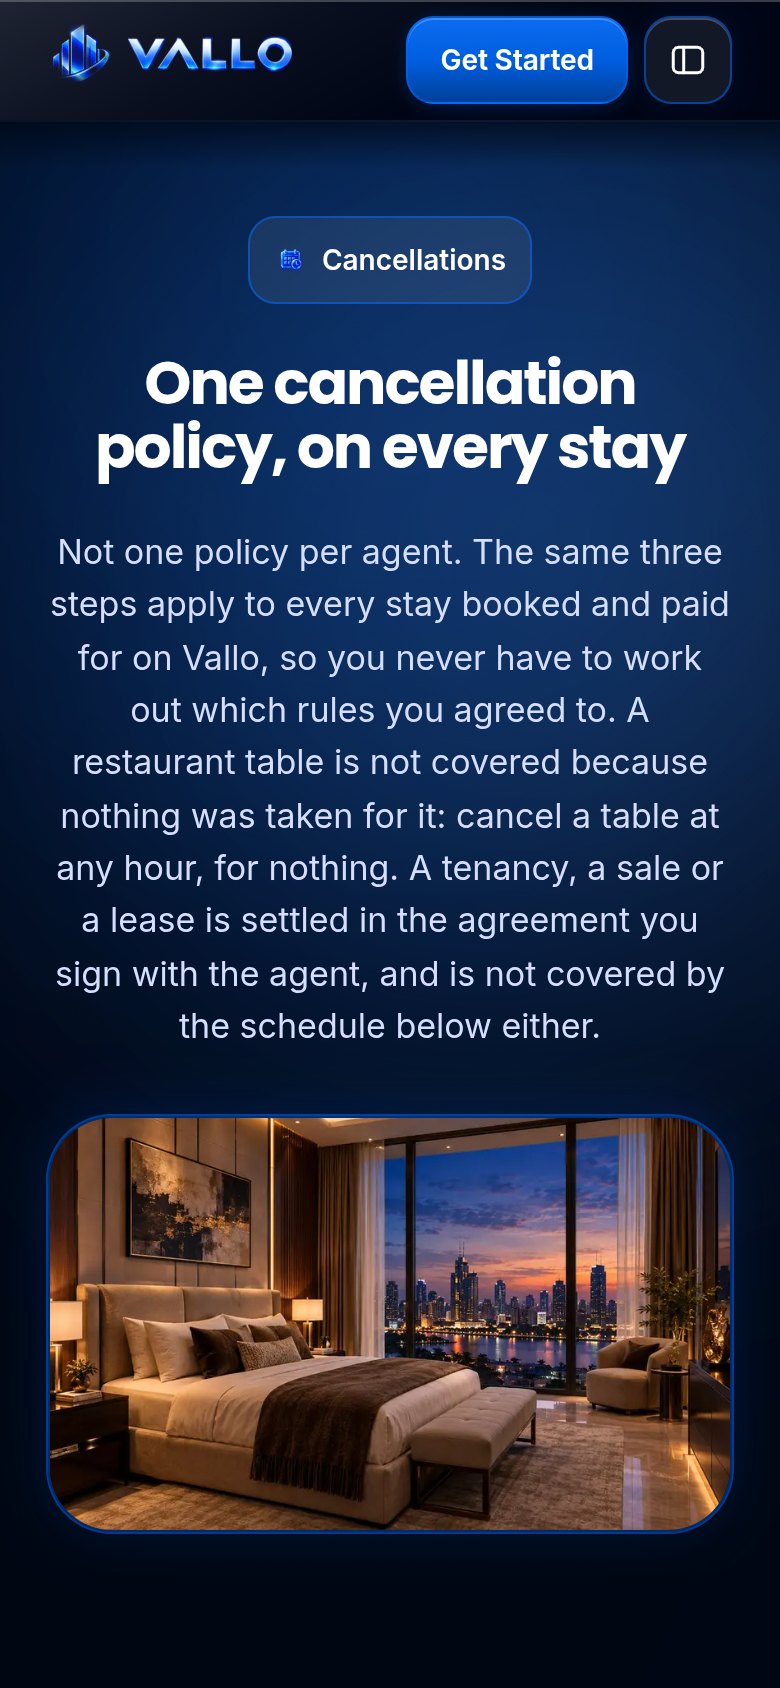
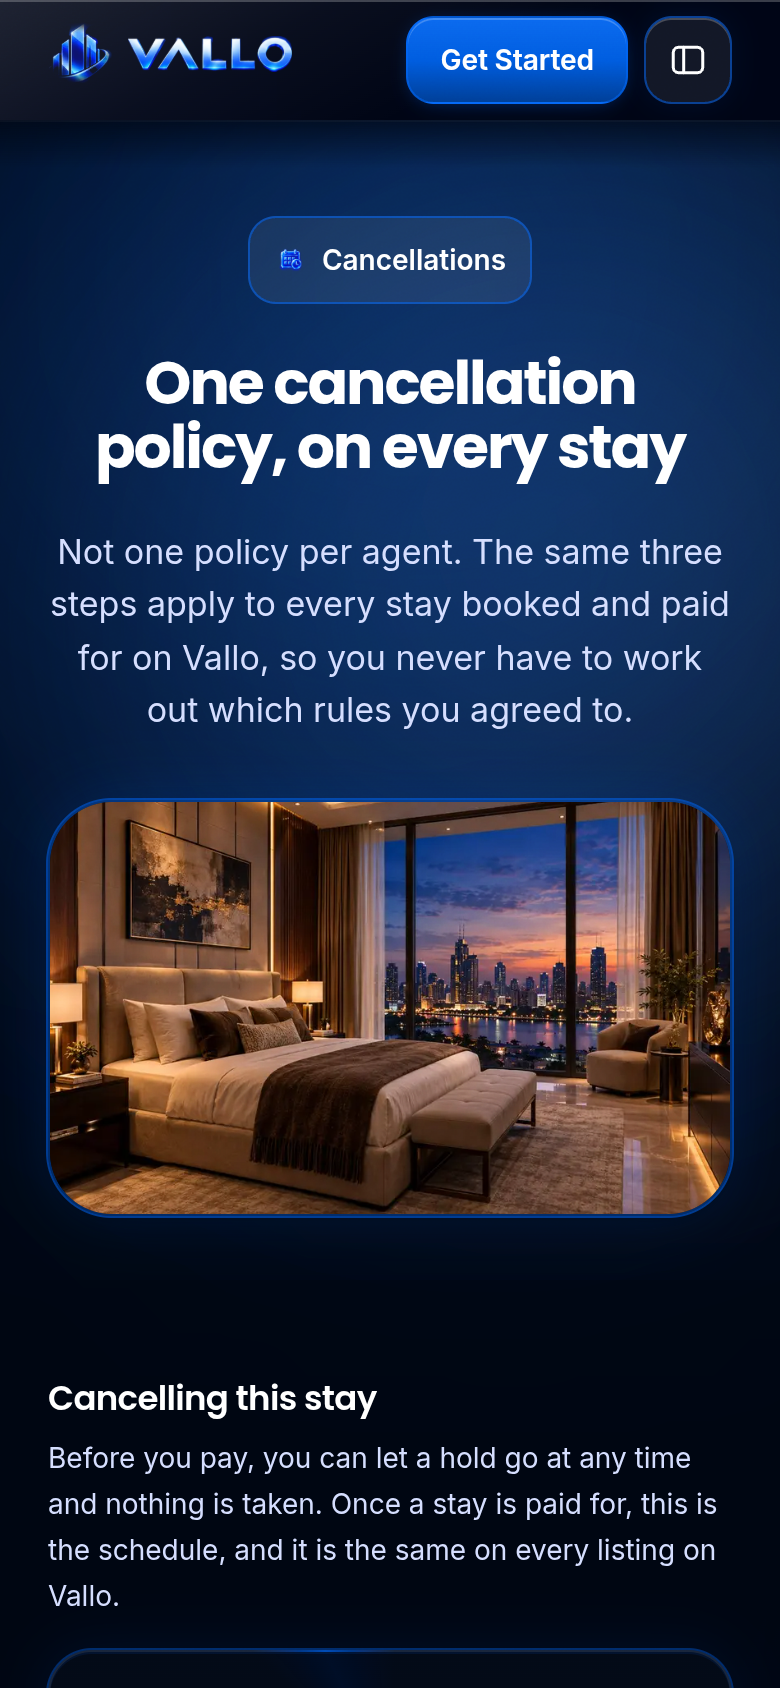
five rows go through the gate with committed pictures, and the harness wrote five proofs of the sign-in screen
THE THREE SWITCH ROWS NAMED PROOFS THAT WERE NOT THERE. `b1/dock-390-dark.png`
was truncated mid-write with no IEND chunk; `sheet` and `drawer` were zero
bytes. The disk hit 100 per cent while they were being copied and none of the
three was ever committed. All three are retaken here on `next start` at
6c621e3, from a clean checkout, and committed.

Retaken rather than recovered, because the originals were not honest either:
B1's runner launched Chromium with `--no-sandbox` alone, so `backdrop-filter`
was silently dropped and all three of those surfaces are glass. The retake
carries the SwiftShader flags and the run prints what the browser actually
composited, `blur(26px) saturate(1.65)`, before it writes a file.

B1's three ratios are CONFIRMED to the digit, measured rather than believed:

  dock object   18 on 52 = 0.346     bar 22 on 70 = 0.314, object rises 7px
  sheet mark    14 on 44 = 0.318
  drawer row    14 on 56 = 0.25      and it opens the same sheet the dock does

One claim does NOT survive and the row now says so: the standing label at
6 on 25 = 0.244 is unverified. It only draws on a workspace row and a visitor
with no session has none.

Taken on /search, not /home. With Supabase configured the gate in proxy.ts is
live and /home answers 307 to /sign-in. /search draws the same dock.

A SIXTH HARNESS LIE, CAUGHT BEFORE IT REACHED THE REGISTER. verify-shots.mjs
checks the status and the not-found marker and never looks at where the
[…]

diff --git a/docs/design/SWEEP.md b/docs/design/SWEEP.md
@@ -9,7 +9,7 @@ order of 19 September, because until that commit the screenshot harness was lyin
 separate ways. A void proof is counted here as no proof at all, which is the only honest
 way to count it.
 
-**132 surfaces.** A surface is DONE only when a fresh proof of it sits beside its
+**133 surfaces.** A surface is DONE only when a fresh proof of it sits beside its
 reference and a second pass has audited it, per the founder's standing order that every
 frontend scope is audited twice before it closes.
 
@@ -17,17 +17,17 @@ frontend scope is audited twice before it closes.
 
 | surface | governing reference | proof |
 | --- | --- | --- |
-| `/home` | founder/GOVERNING-home-markets-target.png | 3 fresh (v1/prod-f1-home-dark.png, v1/prod-f1-home-light.png, v1/prod-home-redirects-to-signin-dark.png) |
-| `/listing/[id]` | none, inherits the register | 1 fresh (v1/prod-f3-listing-dark.png) |
+| `/home` | founder/GOVERNING-home-markets-target.png | 5 fresh (b3/home-390-dark.png, b3/home-390-light.png, v1/prod-f1-home-dark.png, v1/prod-f1-home-light.png, v1/prod-home-redirects-to-signin-dark.png) |
+| `/listing/[id]` | none, inherits the register | 3 fresh (b3/listing-cost-390-dark.png, b3/listing-cost-390-light.png, v1/prod-f3-listing-dark.png) |
 | `/rent` | none, inherits the register | none |
 | `/restaurant/[id]` | none, inherits the register | 1 fresh (v1/prod-f3-restaurant-dark.png) |
 | `/restaurants` | none, inherits the register | 3 fresh (v1/prod-f3-restaurants-dark.png, v1/prod-f3-restaurants-light.png, v1/prod-restaurants-dark.png) |
 | `/saved` | none, inherits the register | **VOID**, 4 taken on the broken harness, must be retaken |
 | `/saved/searches` | none, inherits the register | none |
-| `/search` | founder/GOVERNING-search-filters-target.png | 6 fresh (lead/search-390-dark-shape-law.png, v1/prod-f3-search-dark.png, v1/prod-f3-search-filters-open-dark.png, v1/prod-f3-search-light.png, v1/prod-search-dark.png, v1/prod-search-filters-open-dark.png) |
+| `/search` | founder/GOVERNING-search-filters-target.png | 11 fresh (c1/02-search-found-390-dark.png, c1/02-search-impossible-390-dark.png, c1/02-search-lowercase-no-prefix-390-dark.png, c1/02-search-miss-390-dark.png, c1/05-search-impossible-placement-390-dark.png, lead/search-390-dark-shape-law.png, v1/prod-f3-search-dark.png, v1/prod-f3-search-filters-open-dark.png, v1/prod-f3-search-light.png, v1/prod-search-dark.png, v1/prod-search-filters-open-dark.png) |
 | `/stay/[id]` | none, inherits the register | 1 fresh (v1/prod-f3-stay-dark.png) |
-| `/stays` | none, inherits the register | 2 fresh (v1/prod-f3-stays-dark.png, v1/prod-stays-dark.png) |
-| `/stays/search` | none, inherits the register | **AMBIGUOUS**, the name does not carry this whole path (f3/search-390-dark.png, f3/search-390-light.png, f6/f6-03-search-grid-light.png, lead/search-390-dark-shape-law.png, v1/prod-f3-search-dark.png, v1/prod-f3-search-filters-open-dark.png, v1/prod-f3-search-light.png, v1/prod-search-dark.png, v1/prod-search-filters-open-dark.png); rename it to `stays-search-...` to count it |
+| `/stays` | none, inherits the register | 6 fresh (b3/stays-390-dark.png, b3/stays-390-light.png, c2/stays-doors-390-dark.png, c2/stays-doors-390-light.png, v1/prod-f3-stays-dark.png, v1/prod-stays-dark.png) |
+| `/stays/search` | none, inherits the register | **AMBIGUOUS**, the name does not carry this whole path (c1/02-search-found-390-dark.png, c1/02-search-impossible-390-dark.png, c1/02-search-lowercase-no-prefix-390-dark.png, c1/02-search-miss-390-dark.png, c1/05-search-impossible-placement-390-dark.png, f3/search-390-dark.png, f3/search-390-light.png, f6/f6-03-search-grid-light.png, lead/search-390-dark-shape-law.png, v1/prod-f3-search-dark.png, v1/prod-f3-search-filters-open-dark.png, v1/prod-f3-search-light.png, v1/prod-search-dark.png, v1/prod-search-filters-open-dark.png); rename it to `stays-search-...` to count it |
 
 ## V2 money
 
@@ -35,7 +35,7 @@ frontend scope is audited twice before it closes.
 | --- | --- | --- |
 | `/bookings` | none, inherits the register | **VOID**, 4 taken on the broken harness, must be retaken |
 | `/bookings/[bookingId]` | none, inherits the register | **AMBIGUOUS**, the name does not carry this whole path (f3/bookings-390-dark.png, f3/bookings-390-light.png, f3/bookings-tenancy-390-dark.png, f3/bookings-tenancy-390-light.png, f5/agent-bookings-390-dark.png, v5/agent-bookings-390-dark.png); rename it to `bookings-...` to count it |
-| `/bookings/[bookingId]/review` | none, inherits the register | none |
+| `/bookings/[bookingId]/review` | none, inherits the register | 5 fresh (c1/04-review-card-1536-dark.png, c1/04-review-card-1536-light.png, c1/04-review-card-390-dark.png, c1/04-review-card-390-light.png, c1/06-review-card-light-viewport.png) |
 | `/checkout` | none, inherits the register | **VOID**, 2 taken on the broken harness, must be retaken |
 | `/checkout/[bookingId]` | none, inherits the register | **AMBIGUOUS**, the name does not carry this whole path (f6/f6-00-checkout-bar-blur-dark.png, f6/f6-00-checkout-bar-no-blur-dark.png); rename it to `checkout-...` to count it |
 | `/crypto` | none, inherits the register | **VOID**, 4 taken on the broken harness, must be retaken |
@@ -77,6 +77,7 @@ frontend scope is audited twice before it closes.
 | `/profile/application` | none, inherits the register | none |
 | `/profile/setup` | none, inherits the register | none |
 | `/profile/setup/[role]` | none, inherits the register | none |
+| `/profile/setup/owner` | none, inherits the register | none |
 | `/reset-password` | none, inherits the register | 2 fresh (a2/reset-password-390-dark.png, a2/reset-password-390-light.png) |
 | `/settings` | none, inherits the register | 4 fresh (v4/settings-390-dark.png, v4/settings-390-light.png, v4/settings-tile-doubling-before-2x.png, v4/settings-tile-single-after-2x.png) |
 | `/settings/account` | none, inherits the register | **AMBIGUOUS**, the name does not carry this whole path (a2/delete-account-390-dark.png, a2/delete-account-390-light.png); rename it to `settings-account-...` to count it |
@@ -101,7 +102,7 @@ frontend scope is audited twice before it closes.
 | `/u/[handle]/edit` | none, inherits the register | **AMBIGUOUS**, the name does not carry this whole path (f4/edit-profile-390-dark.png, f4/edit-profile-390-light.png, v4/edit-profile-390-dark.png); rename it to `u-edit-...` to count it |
 | `/u/[handle]/followers` | none, inherits the register | none |
 | `/u/[handle]/following` | none, inherits the register | none |
-| `/verification` | none, inherits the register | **VOID**, 1 taken on the broken harness, must be retaken |
+| `/verification` | none, inherits the register | 2 fresh (a2/verification-390-dark.png, a2/verification-390-light.png) |
 | `/welcome` | none, inherits the register | **VOID**, 2 taken on the broken harness, must be retaken |
 
 ## V5 agent, host and admin
@@ -144,11 +145,11 @@ frontend scope is audited twice before it closes.
 | `/agent/reviews` | none, inherits the register | 1 fresh (v5/agent-reviews-390-dark.png) |
 | `/agent/settings` | none, inherits the register | 1 fresh (v5/agent-settings-390-dark.png) |
 | `/agent/verification` | none, inherits the register | 1 fresh (v5/agent-verification-390-dark.png) |
-| `/host` | none, inherits the register | 1 fresh (v5/host-wizard-390-dark.png) |
+| `/host` | none, inherits the register | 5 fresh (c2/host-property-photos-390-dark.png, c2/host-property-photos-390-light.png, c2/host-property-photos-empty-390-dark.png, c2/host-property-photos-empty-390-light.png, v5/host-wizard-390-dark.png) |
 | `/host/apply` | none, inherits the register | none |
-| `/host/photos` | none, inherits the register | none |
+| `/host/photos` | none, inherits the register | 2 fresh (c2/facilities-and-photos-390-dark.png, c2/facilities-and-photos-390-light.png) |
 | `/host/reservations` | none, inherits the register | 1 fresh (v5/host-reservations-390-dark.png) |
-| `/host/rooms` | none, inherits the register | none |
+| `/host/rooms` | none, inherits the register | 4 fresh (c2/host-rooms-390-dark.png, c2/host-rooms-390-light.png, c2/host-rooms-no-nights-390-dark.png, c2/host-rooms-no-nights-390-light.png) |
 | `/host/start` | none, inherits the register | **AMBIGUOUS**, the name does not carry this whole path (a2/start-390-dark.png, a2/start-390-light.png); rename it to `host-start-...` to count it |
 | `/host/transfer` | none, inherits the register | 1 fresh (v5/host-transfer-390-dark.png) |
 
@@ -177,10 +178,10 @@ frontend scope is audited twice before it closes.
 
 ## The count
 
-- 51 surfaces carry at least one proof taken on the honest harness.
-- 16 surfaces carry only void proofs and must be retaken.
+- 55 surfaces carry at least one proof taken on the honest harness.
+- 15 surfaces carry only void proofs and must be retaken.
 - 27 surfaces have a proof whose name reaches their last segment but not their whole path, and are counted as unproven until it is renamed.
-- 38 surfaces have no proof at all.
+- 36 surfaces have no proof at all.
 
 A proof is matched to a surface by EVERY non-parameter segment of its route appearing in
 the file name as a consecutive run, so a proof named for something else will not be counted

diff --git a/docs/BUILD_07_LEDGER.md b/docs/BUILD_07_LEDGER.md
@@ -253,13 +253,14 @@ the worker. No row, no close, and the lead does not commit it.
 | `/careers` | none, inherits the register | `a2/careers-390-{dark,light}.png` | 0 breaches at 390 and 1536, dark and light | A2 |
 | `/docs` | none, inherits the register | `a2/docs-390-{dark,light}.png` | 0 breaches at 390 and 1536, dark and light | A2 |
 | `/delete-account` | none, inherits the register | `a2/delete-account-390-{dark,light}.png` | 0 breaches at 390 and 1536 | A2 |
-| `/cancellations` | none, inherits the register | `a2/cancellations-390-{dark,light}.png`, taken BEFORE the copy change below; the shape is unchanged, the hero is now two sentences rather than four, so the picture is one revision stale | 0 breaches at 390 and 1536, dark and light | A2 |
+| `/cancellations` | none, inherits the register | `a2/cancellations-390-{dark,light}.png`, RETAKEN by A2b at `6c621e3`, so it is no longer a revision stale and shows the two sentence hero | 0 breaches at 390 and 1536, dark and light | A2, proof by A2b |
+| `/verification` | none, inherits the register | `a2/verification-390-{dark,light}.png`, taken by A2b at `6c621e3`; the signed-out face, which is the one a stranger meets and the one that carries the `PageScene` shield-check | 0 breaches at 390 and 1536, dark and light | A2, proof by A2b |
 | `/privacy` | none, inherits the register | `a2/privacy-390-{dark,light}.png` | 0 breaches at 390 and 1536 | A2 |
 | `/terms` | none, inherits the register | `a2/terms-390-{dark,light}.png` | 0 breaches at 390 and 1536 | A2 |
 | The offline card, `apps/web/native-shell/index.html` | none, inherits the register; drawn to it for the first time | `a2/native-shell-no-connection-390-{dark,light}.png`, `a2/native-shell-no-server-390-{dark,light}.png` | measured in the browser: plate 0.27, button 0.28, card 0.07, note 0.12; the only circle is the explanatory glyph | A2 |
-| The dock with the raised centre switch, on `/home` | `GOVERNING-01` screen one | `b1/dock-390-dark.png`, taken on `next start` at `6b7e21f` | dock object 18 on 52 = 0.346 | B1 |
-| The Switch profile sheet | `GOVERNING-01` screen two | `b1/sheet-390-dark.png` | row marks 14 on 44 = 0.318; standing label 6 on 25 = 0.244 | B1 |
-| The side drawer's Switch profile row | `GOVERNING-01` screen three | `b1/drawer-390-dark.png` | row 14 on 56 = 0.25 | B1 |
+| The dock with the raised centre switch | `GOVERNING-01` screen one | `b1/dock-390-dark.png`, RETAKEN by A2b on `next start` at `6c621e3`, on `/search` because `/home` is behind the gate | dock object 18 on 52 = 0.346, measured; bar 22 on 70 = 0.314; the object rises 7px above the bar; five slots, Home, Search, Switch profile, Feed, Sign up | B1, proof by A2b |
+| The Switch profile sheet | `GOVERNING-01` screen two | `b1/sheet-390-dark.png`, RETAKEN by A2b at `6c621e3` | row mark 14 on 44 = 0.318, measured. THE STANDING LABEL IS NOT IN THIS PROOF: it only draws on a workspace row, a visitor with no session has none, so B1's 6 on 25 = 0.244 is UNVERIFIED and needs a session | B1, proof by A2b |
+| The side drawer's Switch profile row | `GOVERNING-01` screen three | `b1/drawer-390-dark.png`, RETAKEN by A2b at `6c621e3` | row 14 on 56 = 0.25, measured; and the sheet it opens is the same sheet the dock opens, asserted in the run | B1, proof by A2b |
 
 
 **THE GATE'S OWN MEASUREMENT, TAKEN BY A2b ON A CLEAN CHECKOUT OF `6c621e3`.**
@@ -371,6 +372,33 @@ taken without a session this worker does not have. Where a proof of the same
 components exists it comes off the preview harness and says so; a preview is
 not the route, and the two had drifted apart, which is recorded below.
 
+**A SIXTH HARNESS LIE, AND IT WROTE FIVE PROOFS OF THE SIGN IN SCREEN BEFORE
+IT WAS CAUGHT.** `verify-shots.mjs` checks the HTTP status and it checks the
+`data-nf-not-found` marker, and neither of those looks at WHERE THE BROWSER
+ENDED UP. On a production server at `6c621e3` with Supabase configured, the
+gate in `proxy.ts` is live and every product route answers 307 to `/sign-in`
+for a visitor with no session. Asked for `/notifications`, `/saved/searches`,
+`/profile/setup`, `/legal/privacy` and `/legal/terms`, the harness followed all
+five redirects and wrote five PNGs of the SIGN IN SCREEN under those five
+names. Every assertion in the file passed on every one of them, because the
+sign-in screen is a real page of ours: right theme, stylesheets loaded, no
+stuck `Reveal` band, 200, no not-found marker. Three were byte identical to
+each other. It is the same failure as the 404 shots the file's fourth check
+exists for, arriving through a different door, and worse in one way: a picture
+of the sign-in screen looks like a screen somebody designed, so it survives a
+human glance as well as the machine's. Those five files were deleted rather
+than filed. `verify-shots.mjs` now compares the landed pathname with the one
+asked for and refuses the difference, and the refusal is demonstrated: the same
+five routes now produce no file and name the redirect.
+
+**AND THAT IS WHY THE FOUR `PageScene` SCREENS STILL CARRY NO ROW.** A2 said
+this plainly and A2 was right: `/notifications`, `/saved/searches` and
+`/profile/setup` are behind the signed-in gate and a proof of them needs a
+session that no worker in this stint has. The reason A2 gave for the blockage
+has changed, because `next build` is green on a clean checkout of the tip, but
+the conclusion has not. `/verification` was the one of the four that IS
+reachable without a session, and it now has a row above.
+
 **B1, Track O: every item that lived on the More surface, with its new home,
 and the proof each one resolves.** The founder's instruction was that nothing
 on More may become unreachable. The honest finding is that **More had no
@@ -403,6 +431,25 @@ argument that a drawer row pointing at a 404 is worse than no row. So the
 route is unreachable ON PURPOSE and the promise is not broken by it, but the
 list had to stop naming it, because a row that does not exist cannot be proved
 to still resolve and nobody reading this should go looking for one.
+
+**TRACK O, MEASURED ON A PRODUCTION SERVER BY A2b, AND THE PROOF AS WRITTEN
+COULD NOT HAVE ANSWERED IT.** `more-proof.mjs` opens the drawer and fetches
+every `href` it draws. With the gate live, an anonymous drawer draws three rows
+and a foot, because `buildNav` builds the whole account block, both workspaces
+and the tail behind `if (signedIn)`; and every href it would fetch answers 307.
+Run as written it reports nothing reachable, which is not an answer to the
+founder's question. Asked properly, of the eighteen destinations in the list
+above, read off the DOM on a production server rather than off the HTML text:
+**four render to a stranger** (`/search`, `/around`, `/stays`,
+`/stays/search`), **thirteen answer 307 to `/sign-in`**, which is the gate
+doing its job and proves the route exists rather than that it is missing, and
+**one is not-found**, `/crypto`, which is the deliberate closure recorded
+above. Nothing on More became unreachable. One caution for whoever runs this
+next: the not-found marker must be read from the DOM after the page settles,
+never by searching the response body for the string, because Next ships the
+segment's not-found template inside the flight payload of pages that are
+perfectly fine, and this worker briefly mis-read four healthy routes as 404s
+that way.
 
 **B1's register extensions, recorded so they can be checked.** `GOVERNING-01`
 and `02` govern everything this scope drew except three pieces of anatomy the
